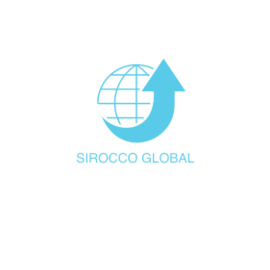
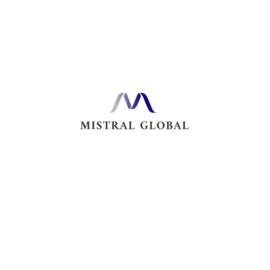
upd

Changed region(s): [[0.2963, 0.2074, 0.7111, 0.5333], [0.2667, 0.563, 0.7111, 0.6222]]

diff --git a/index.html b/index.html
@@ -3,14 +3,13 @@
   <head>
     <meta charset="UTF-8" />
     <meta name="viewport" content="width=device-width, initial-scale=1.0" />
-    <title>Siroccoglobal</title>
-    <link rel="apple-touch-icon" sizes="120x120" href="/apple-touch-icon.png">
-    <link rel="icon" type="image/png" sizes="32x32" href="/favicon-32x32.png">
-    <link rel="icon" type="image/png" sizes="16x16" href="/favicon-16x16.png">
-    <link rel="manifest" href="/site.webmanifest">
-    <link rel="mask-icon" href="/safari-pinned-tab.svg" color="#5bbad5">
-    <meta name="msapplication-TileColor" content="#da532c">
-    <meta name="theme-color" content="#ffffff">
+    <title>MistralGlobal</title>
+    <link rel="apple-touch-icon" sizes="180x180" href="/apple-touch-icon.png" />
+    <link rel="icon" type="image/png" sizes="32x32" href="/favicon-32x32.png" />
+    <link rel="icon" type="image/png" sizes="16x16" href="/favicon-16x16.png" />
+    <link rel="manifest" href="/site.webmanifest" />
+    <meta name="msapplication-TileColor" content="#da532c" />
+    <meta name="theme-color" content="#ffffff" />
   </head>
   <body>
     <div id="root"></div>

diff --git a/src/components/MainSlider/index.jsx b/src/components/MainSlider/index.jsx
@@ -21,7 +21,7 @@ import Slide32xebp from '../../assets/slide3@2x.webp';
 const MainSlider = () => {
   return (
     <section className="main-slider">
-      <h1 className="main-slider__text">SIROCCO GLOBAL</h1>
+      <h1 className="main-slider__text">MISTRAL GLOBAL</h1>
       <Swiper
         modules={[Autoplay, Pagination]}
         autoplay={{

diff --git a/src/components/MainSlider/index.scss b/src/components/MainSlider/index.scss
@@ -42,6 +42,7 @@
       height: 100%;
       object-fit: cover;
       object-position: center;
+      background-color: $bg-color;
     }
   }
 
